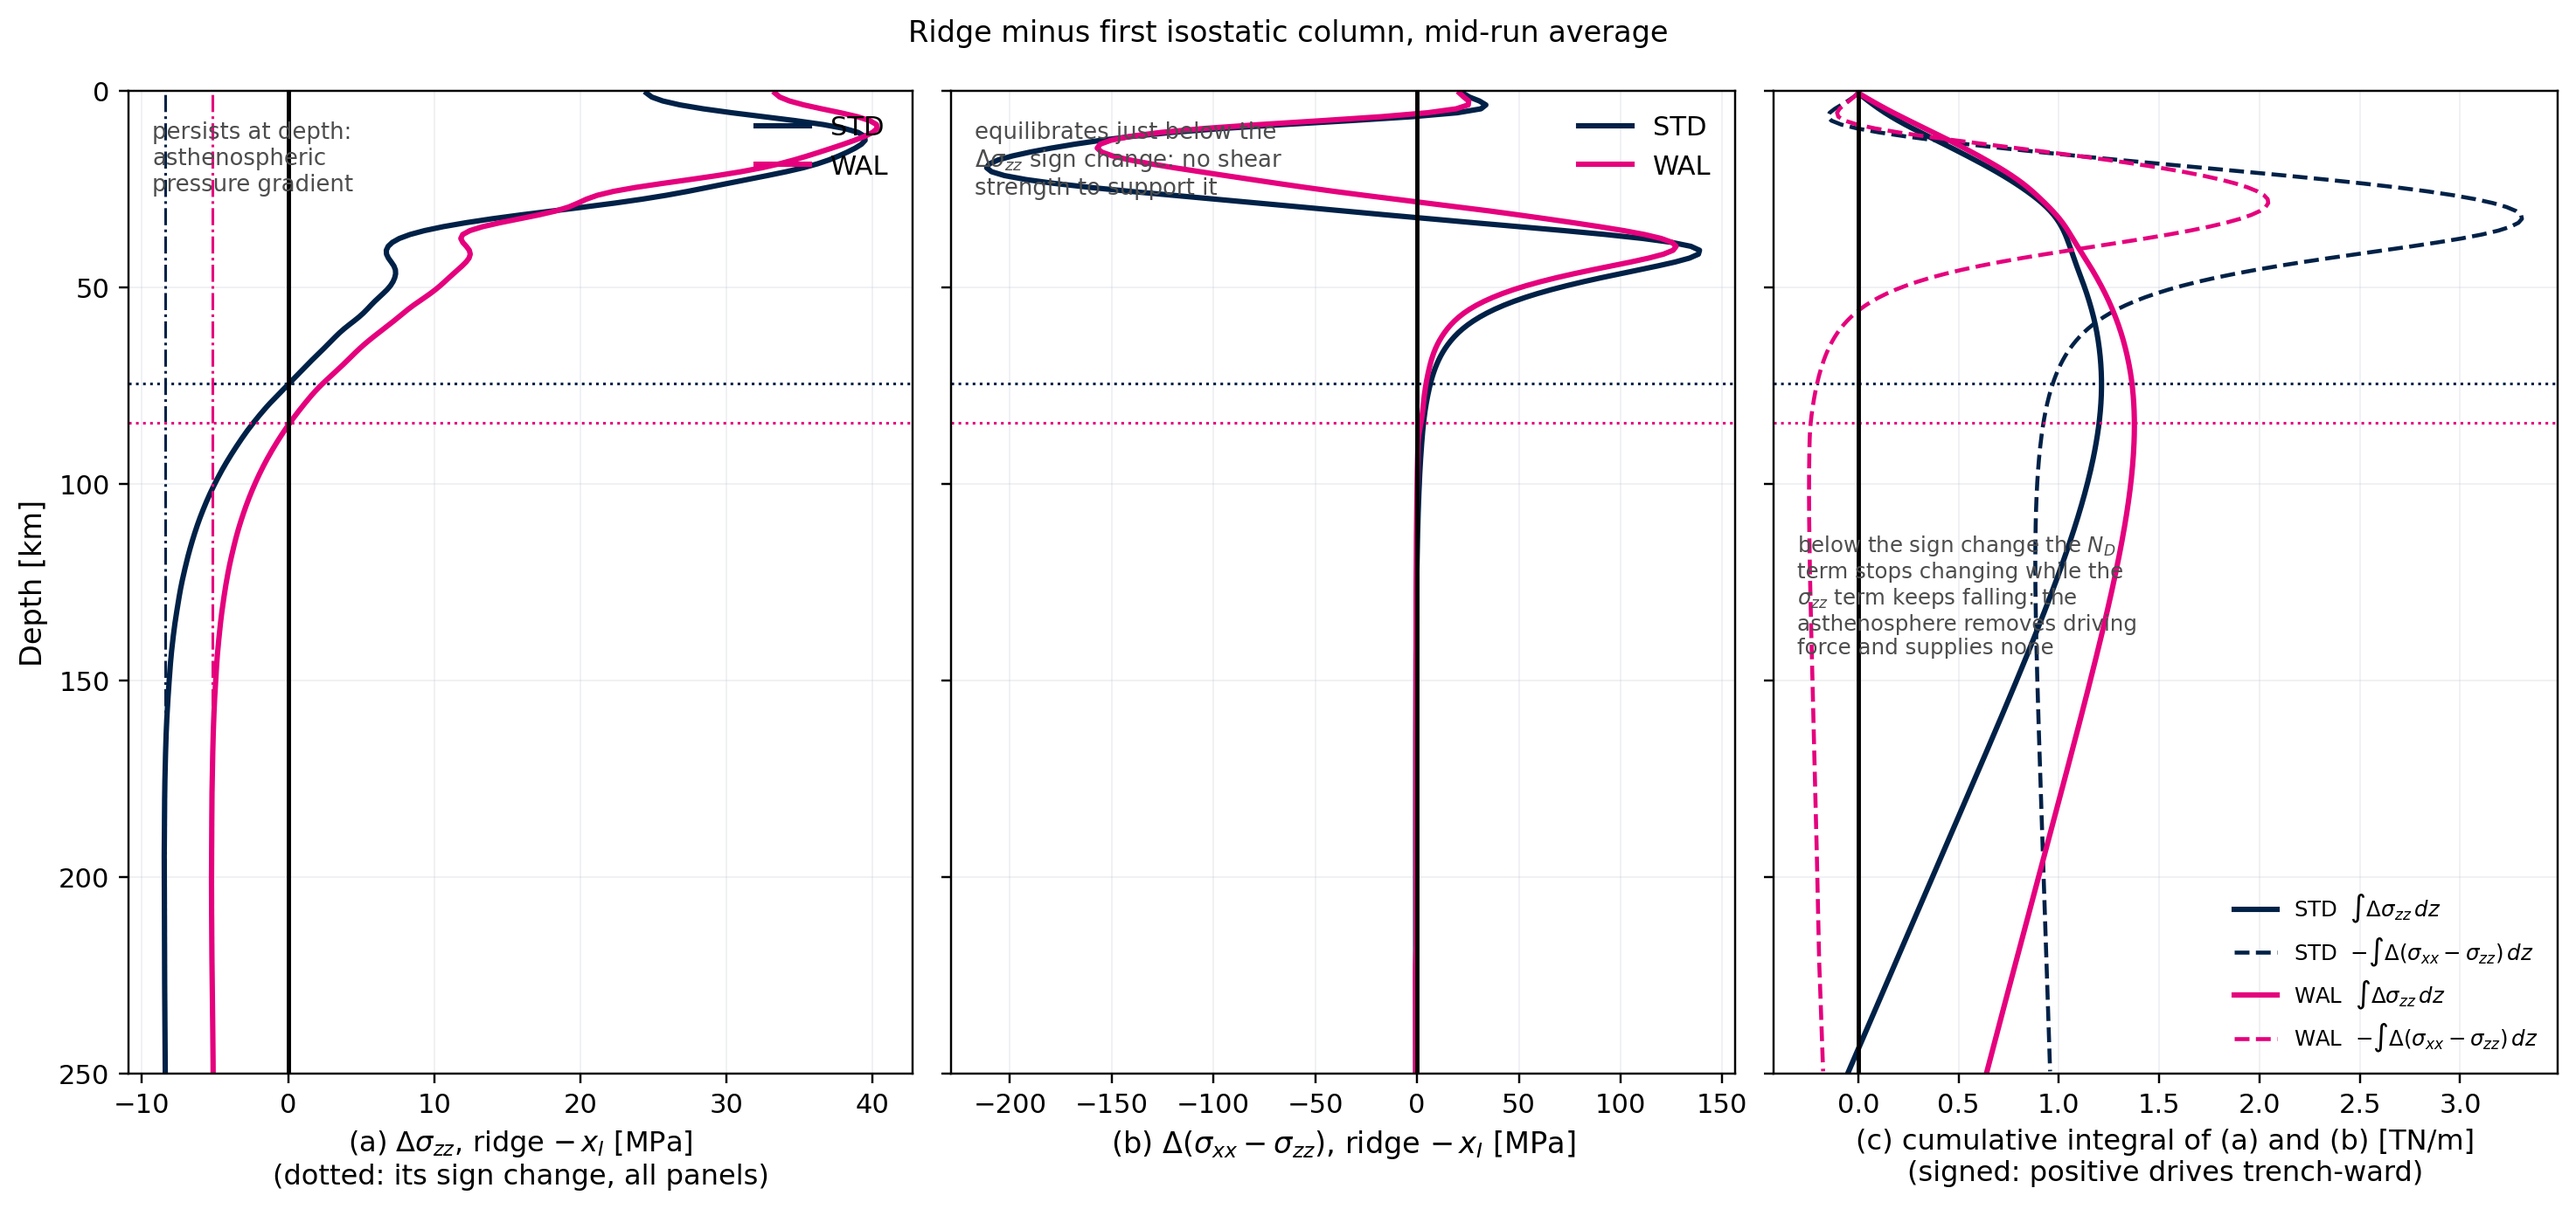
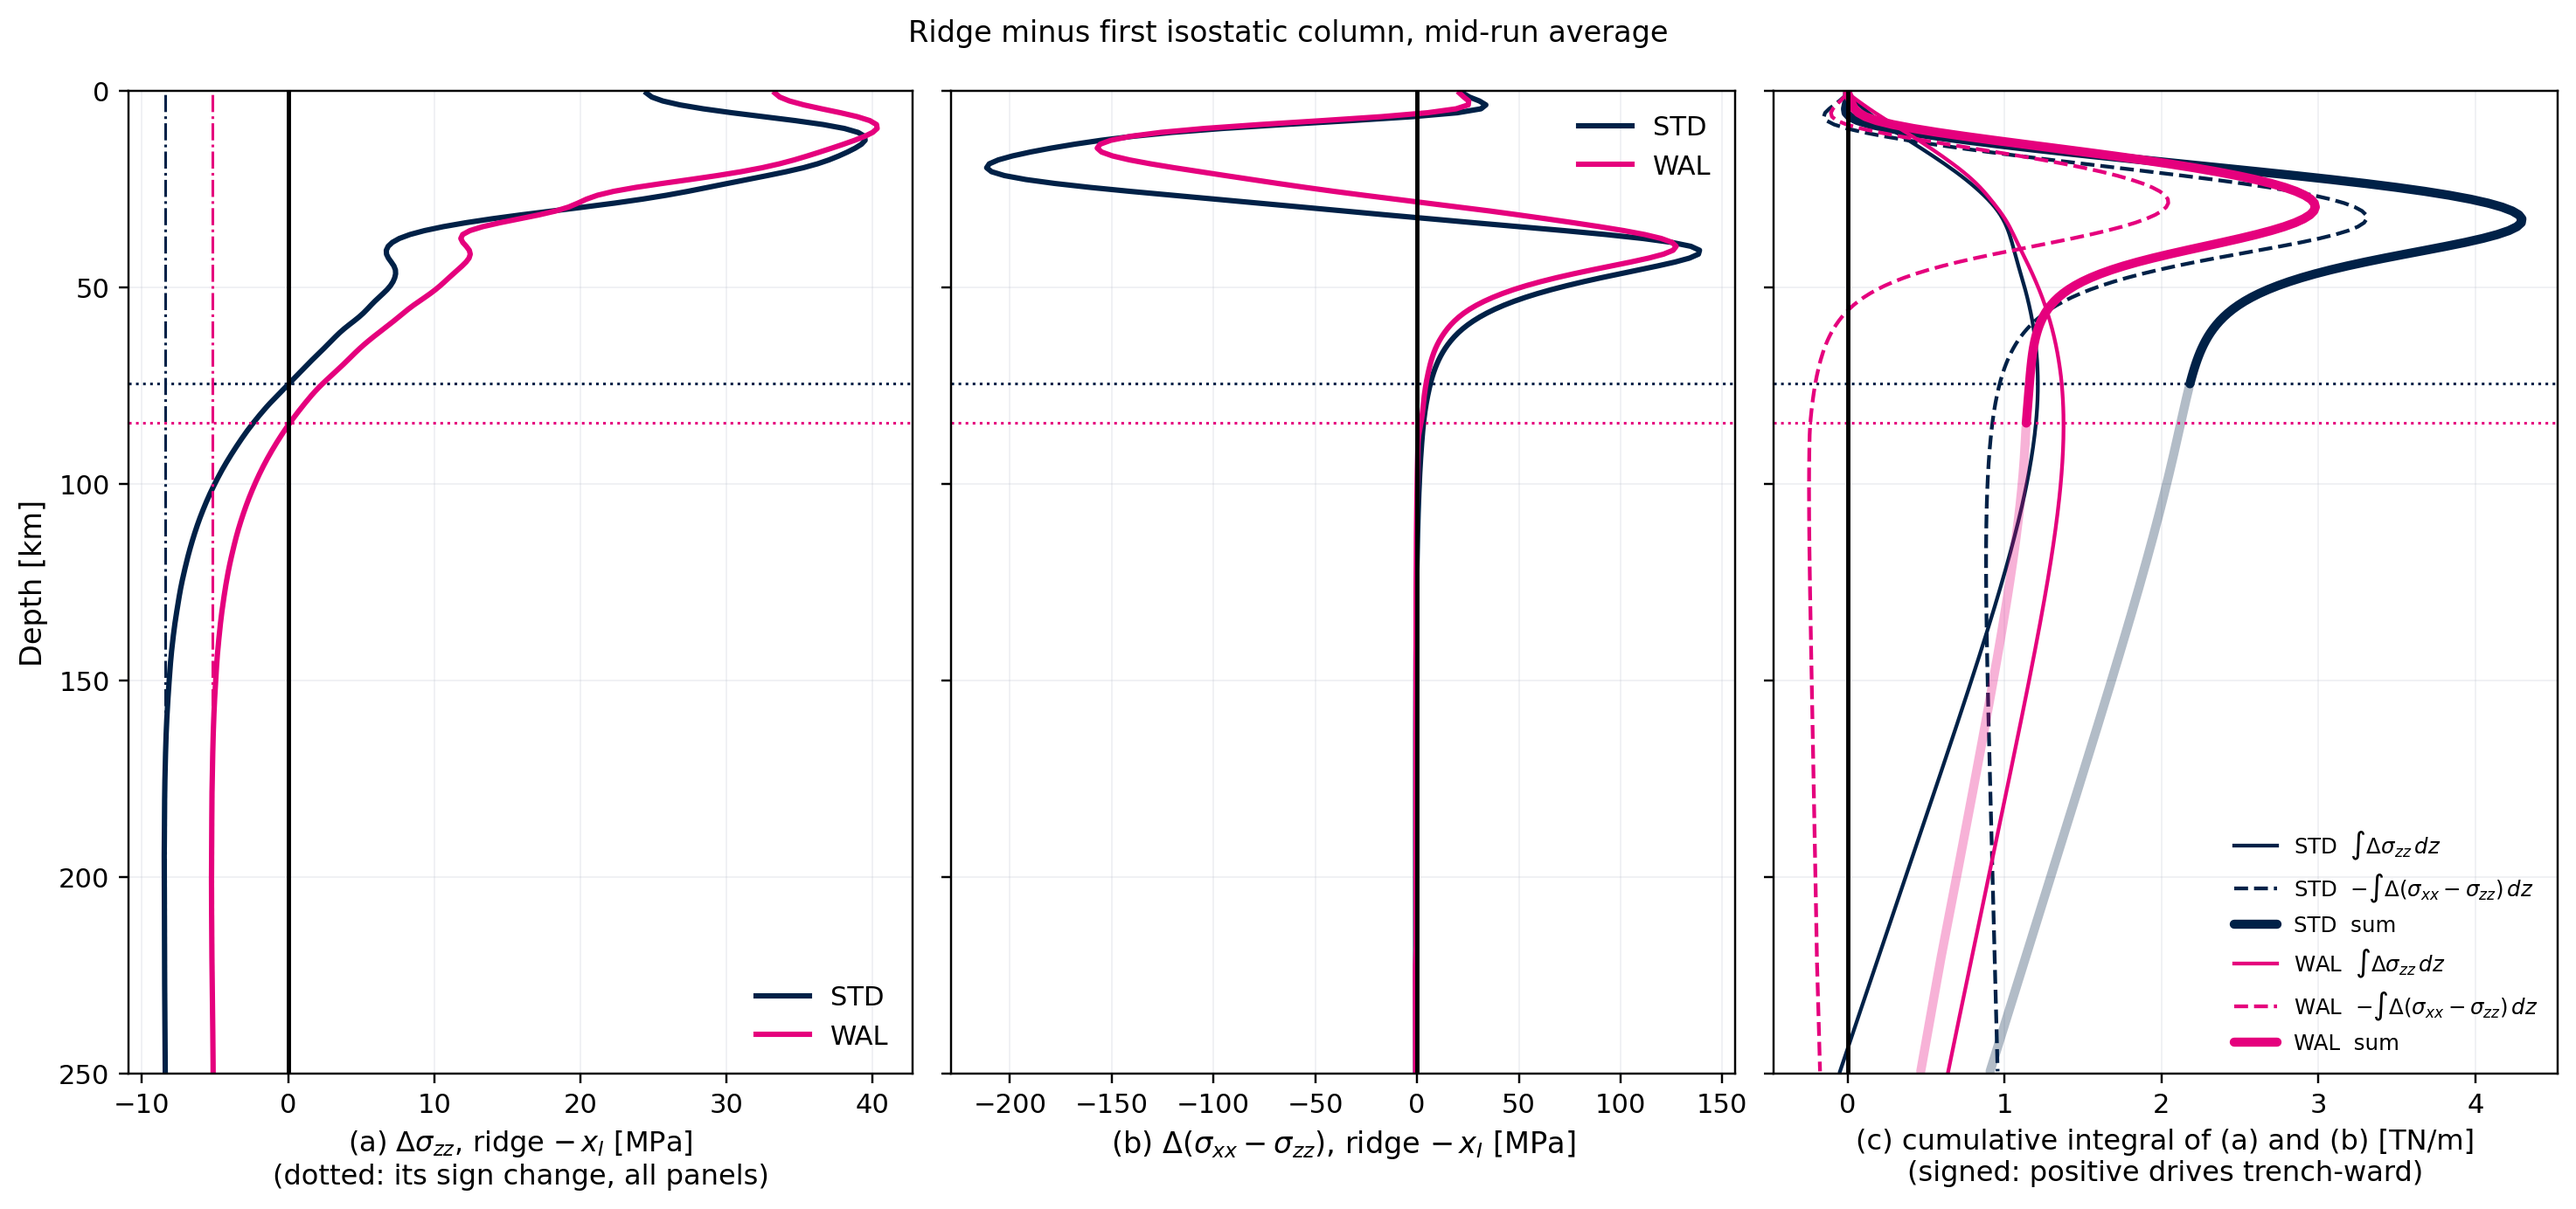
fig_ridge_column_stresses: add the summed curve, drop the in-panel prose
Dan 2026-09-18. Panel (c) now carries the sum of the two cumulative
integrals in bold: solid above the Delta sigma_zz sign change, where the
net force of the isostatic domain is generated, and faded below it. The
two components are thinned so the sum reads as the principal curve.

The descriptive annotations in all three panels are removed -- they
belong in the caption, which now carries them. Panel (a)'s legend moves
to the lower right, clear of the curves.

diff --git a/scripts/fig_ridge_column_stresses.py b/scripts/fig_ridge_column_stresses.py
@@ -104,6 +104,8 @@ def main():
                  - (d[f'{key}_sxx_I'] - d[f'{key}_szz_I']))[m].mean(axis=0)) / 1e6
         axes[0].plot(dzz, zkm, color=col, lw=2.0, label=key)
         axes[1].plot(nd, zkm, color=col, lw=2.0, label=key)
+        s_x = np.where((dzz[:-1] > 0) & (dzz[1:] <= 0) & (zkm[:-1] > 20))[0]
+        z_cross = zkm[s_x[0]] if len(s_x) else np.nan
         # (c) cumulative contributions, SIGNED so positive drives the plate
         # trench-ward. The net force on the segment in +x is
         # d(sigma_xx-bar) = dN_D + d(sigma_zz-bar); driving is -x, so each
@@ -113,10 +115,18 @@ def main():
             [[0.0], np.cumsum(0.5 * (a[1:] + a[:-1]) * np.diff(z))])
         C_zz = cum(dzz * 1e6) / 1e12
         C_nd = -cum(nd * 1e6) / 1e12
-        axes[2].plot(C_zz, zkm, color=col, lw=2.0,
+        axes[2].plot(C_zz, zkm, color=col, lw=1.4,
                      label=f'{key}  $\\int\\Delta\\sigma_{{zz}}\\,dz$')
-        axes[2].plot(C_nd, zkm, color=col, lw=1.5, ls='--',
+        axes[2].plot(C_nd, zkm, color=col, lw=1.4, ls='--',
                      label=f'{key}  $-\\int\\Delta(\\sigma_{{xx}}-\\sigma_{{zz}})\\,dz$')
+        # the sum, bold above the sign change and faded below it: only the
+        # part above is net force generated within the boundary layer
+        C_sum = C_zz + C_nd
+        above = zkm <= z_cross
+        axes[2].plot(C_sum[above], zkm[above], color=col, lw=3.4,
+                     solid_capstyle='round', label=f'{key}  sum')
+        axes[2].plot(C_sum[~above], zkm[~above], color=col, lw=3.4, alpha=0.3,
+                     solid_capstyle='round')
         nd_settled = np.interp(240e3, z, C_nd) - np.interp(100e3, z, C_nd)
         zz_lost = np.interp(240e3, z, C_zz) - np.max(C_zz)
         print(f'   cumulative at 100 km: sigma_zz {np.interp(100e3, z, C_zz):+.2f}, '
@@ -127,8 +137,6 @@ def main():
         dP = dzz[deep].mean()
         below = np.where((zkm > 40) & (np.abs(nd) < ZERO_TOL_MPA))[0]
         z_nd0 = zkm[below[0]] if len(below) else np.nan
-        s = np.where((dzz[:-1] > 0) & (dzz[1:] <= 0) & (zkm[:-1] > 20))[0]
-        z_cross = zkm[s[0]] if len(s) else np.nan
         axes[0].axvline(dP, color=col, lw=1.0, ls='-.')
         # the one horizontal marker, on ALL panels: where Delta sigma_zz
         # changes sign (Dan, 2026-09-18)
@@ -157,20 +165,9 @@ def main():
     for ax in axes:
         ax.axvline(0, color='k', lw=1.6)
         ax.grid(alpha=0.25, color=C_RULE, lw=0.6)
-    axes[0].legend(frameon=False, fontsize=10, loc='upper right')
+    axes[0].legend(frameon=False, fontsize=10, loc='lower right')
     axes[1].legend(frameon=False, fontsize=10, loc='upper right')
-    axes[0].text(0.03, 0.97, 'persists at depth:\nasthenospheric\npressure gradient',
-                 transform=axes[0].transAxes, fontsize=8.5, color='0.3', va='top')
-    axes[1].text(0.03, 0.97, 'equilibrates just below the\n'
-                 '$\\Delta\\sigma_{zz}$ sign change: no shear\n'
-                 'strength to support it',
-                 transform=axes[1].transAxes, fontsize=8.5, color='0.3', va='top')
     axes[2].legend(frameon=False, fontsize=8, loc='lower right')
-    axes[2].text(0.03, 0.55,
-                 'below the sign change the $N_D$\nterm stops changing while the\n'
-                 '$\\sigma_{zz}$ term keeps falling: the\nasthenosphere removes driving\n'
-                 'force and supplies none',
-                 transform=axes[2].transAxes, fontsize=8, color='0.3', va='top')
     fig.suptitle('Ridge minus first isostatic column, mid-run average', fontsize=11)
     fig.tight_layout()
     out = os.path.join(ROOT, 'figures', 'fig_ridge_column_stresses.png')
